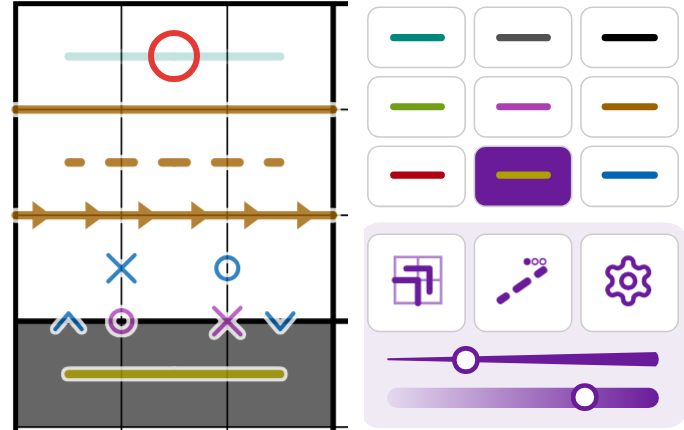
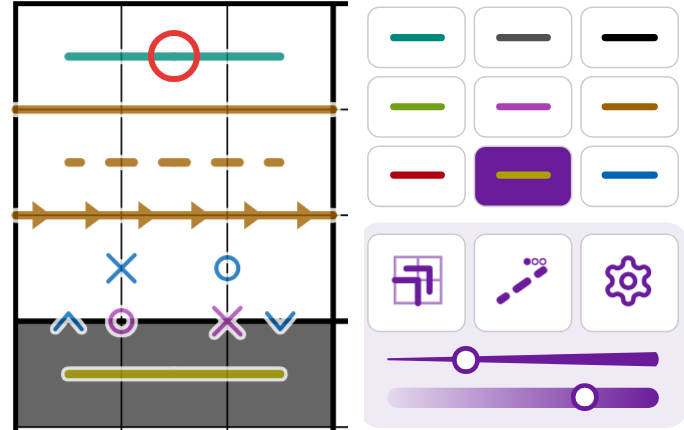
Pen Tool Extras: remove the erase preview, nothing dims during a right press (#739) (#785)
* Pen Tool Extras: remove the erase preview, nothing dims during a right press (#739)

Closes #739

* Pen Tool Extras: a name-independent no-dimming check, drop the weak CSS test and the history note (#739)

Closes #739

---------

Changed region(s): [[0.0921, 0.1209, 0.4298, 0.1512]]

diff --git a/pen-tool-extras.user.js b/pen-tool-extras.user.js
@@ -1,7 +1,7 @@
 // ==UserScript==
 // @name         SudokuPad Pen Tool Extras
 // @namespace    https://github.com/caneff/sudokupad-scripts
-// @version      1.31.22
+// @version      1.31.23
 // @description  Adds to SudokuPad's pen tool: customizable pen colors, dashed and arrow lines, and marks on cell edges and grid corners. Turn the pen tool on in SudokuPad's settings first.
 // @homepageURL  https://caneff.github.io/sudokupad-scripts/pen-tool-extras.html
 // @match        https://sudokupad.app/*
@@ -21,7 +21,7 @@
 
   // 1. Core: the settings table, the install steps, the style writer and shared constants
   // The script cannot read its own header (GM_info is absent without Tampermonkey), so @version is repeated here.
-  const VERSION = '1.31.22'
+  const VERSION = '1.31.23'
   const STYLE_ID = 'pen-tool-extras-style'
   const GRID_SELECTOR = '#svgrenderer'
   const PEN_LAYER = '#cell-pen'
@@ -1660,53 +1660,6 @@
   }
 
   // 6. Marks: edge marks, grid-corner marks, cell marks and the marks layer
-  // Faded strokes: what the right-click erase will take is drawn at this opacity, a little under tldraw's 0.32 for the same.
-  const FADED_OPACITY = 0.3
-  const FADED_CLASS = 'pen-tool-extras-faded'
-  const FADED_GROUP_CLASS = 'pen-tool-extras-faded-group'
-  const PREVIEW_LAYER_ID = 'pen-tool-extras-erase-preview'
-
-  // `Cell.renderPropPen` keeps each stroke's element in `childElems` under the class it was drawn with (docs/research/sudokupad-pen-tool.md). A stroke with no element throws,
-  // which turns off the feature that asked, rather than leaving the stroke unfaded.
-  function strokeElementOf (cell, valueColor) {
-    const className = `cell-pen pen-${valueColor[0]} pencolor-${valueColor.slice(1)}`
-    const element = cell.childElems[className]
-    if (!element) throw new Error(`pen-tool-extras: cell ${cell.row},${cell.col} holds no element for ${className}`)
-    return element
-  }
-
-  // Exactly `elements` carry the faded class, which hides them, and copies of them show in one group at the faded opacity, so the set fades as one picture: where two segments
-  // of a line join, the joint shows the same shade as the rest (each stroke fading on its own would stack there). The group is beside the pen layer, so the layer's opacity is
-  // applied to it here and the outline filter is applied by `buildOutlineCss`.
-  let fadedGroup = null
-
-  // What the faded group shows: the faded opacity under the pen layer's own, which the group, being beside the layer, does not get from it.
-  const fadedOpacity = () => FADED_OPACITY * inForce.opacity / 100
-
-  function copiesOf (className, elements) {
-    const group = document.createElementNS(SVG_NAMESPACE, 'g')
-    group.setAttribute('class', className)
-    elements.forEach((element) => {
-      const copy = element.cloneNode(true)
-      copy.classList.remove(FADED_CLASS)
-      group.appendChild(copy)
-    })
-    return group
-  }
-
-  function fadeStrokes (elements) {
-    const layer = previewLayer()
-    const shown = layer ? elements : []
-    document.querySelectorAll(`.${FADED_CLASS}`).forEach((el) => { if (!shown.includes(el)) el.classList.remove(FADED_CLASS) })
-    shown.forEach((el) => el.classList.add(FADED_CLASS))
-    if (fadedGroup !== null) fadedGroup.remove()
-    fadedGroup = null
-    if (!shown.length) return
-    fadedGroup = copiesOf(FADED_GROUP_CLASS, shown)
-    fadedGroup.style.opacity = fadedOpacity()
-    layer.appendChild(fadedGroup)
-  }
-
   const overGridInPenTool = (app, event) => app.tool === 'pen' && Boolean(event.target.closest && event.target.closest(GRID_SELECTOR))
 
   const guardedBy = (step, fallback) => (handler) => (event) => step.run(() => handler(event), fallback)
@@ -2136,12 +2089,6 @@
     erase.at = to
   }
 
-  function erasedElements (erase) {
-    const lines = [...erase.lines].map(({ value, row, col, color }) => strokeElementOf(Framework.app.grid.getCell(row, col), value + color))
-    const marks = [...erase.marks].flatMap(([cell, values]) => cell.pen.filter((valueColor) => values.has(valueColor[0])).map((valueColor) => strokeElementOf(cell, valueColor)))
-    return [...lines, ...marks]
-  }
-
   function finishErase (tool, erase) {
     const marks = [...erase.marks].map(([cell, values]) => ({ cell, values: [...values] }))
     const acts = eraseActs([...erase.lines], marks, (row, col) => Framework.app.grid.getCell(row, col))
@@ -2161,8 +2108,7 @@
     steps.lineErase.wrap(tool, 'clickCell', (stock, ...args) => isEraseButton(lastButton) ? undefined : stock(...args))
     const erasePress = (event) => isEraseButton(event.button) && overGridInPenTool(app, event)
     const pointOf = (event) => app.xyToRCExact(event.clientX, event.clientY)
-    const showErasing = () => fadeStrokes(erase === null ? [] : erasedElements(erase))
-    const guarded = guardedBy(steps.lineErase, () => { erase = null; menuOwed = false; showErasing() })
+    const guarded = guardedBy(steps.lineErase, () => { erase = null; menuOwed = false })
     window.addEventListener('pointerdown', guarded((event) => {
       erase = null
       menuOwed = false
@@ -2174,19 +2120,16 @@
       erase = started
       menuOwed = true
       crossPoint(marksAt, started, point)
-      showErasing()
       // A `pointerup` comes only once the last button is up, whichever it is, so a drag with a second button pressed ends at that release.
       trackPointer(window, {
         move: guarded((moveEvent) => {
           if (erase === started && (moveEvent.buttons & RIGHT_BIT)) {
             crossTo(marksAt, started, pointOf(moveEvent))
-            showErasing()
           }
         }),
         end: guarded((endEvent) => {
           if (erase !== started) return
           erase = null
-          showErasing()
           if (endEvent.type === 'pointercancel') return
           crossTo(marksAt, started, pointOf(endEvent))
           finishErase(tool, started)
@@ -2197,7 +2140,6 @@
     window.addEventListener('keydown', guarded((event) => {
       if (event.key !== 'Escape' || erase === null) return
       erase = null
-      showErasing()
     }), true)
     document.addEventListener('contextmenu', guarded((event) => {
       const overGrid = inForce.eraseClicks && overGridInPenTool(app, event)
@@ -2264,7 +2206,6 @@
     const colorsOf = (pages) => pages.flatMap((page) => page.chars.map((char, i) => [char, PEN_COLOR_KEYS[i]]))
     const dashed = PEN_PAGES.filter((page) => page.dashed).flatMap((page) => page.chars)
     return [
-      `:root:root .cell-pen.${FADED_CLASS} { opacity: 0; }`,
       // The hint layer fades as one picture, so an arrowhead over the line shows the line's shade. The erase hint keeps its stock 0.5 overall.
       `:root:root #${HINT_LAYER_ID} { opacity: ${HINT_OPACITY}; }`,
       `:root:root #${HINT_LAYER_ID} .penhint { opacity: 1; }`,
@@ -2277,7 +2218,7 @@
 
   // A filter runs on the layer's picture before its opacity does, so the outline fades with the marks. The highlight (`.penhint`) is in its own group beside the layer, so it is not outlined.
   function buildOutlineCss (outline) {
-    return outline ? `:root:root ${PEN_LAYER}, :root:root .${FADED_GROUP_CLASS} { filter: url(#${OUTLINE_FILTER_ID}); }` : ''
+    return outline ? `:root:root ${PEN_LAYER} { filter: url(#${OUTLINE_FILTER_ID}); }` : ''
   }
 
   // The layer's alpha is grown in the two steps described at OUTLINE_SQUARE_SHARE, as one shape, so the outline does not cut across where lines join or cross. The filter works
@@ -2316,10 +2257,6 @@
 
   function hintLayer () {
     return layerIn(HINT_LAYER_ID, true)
-  }
-
-  function previewLayer () {
-    return layerIn(PREVIEW_LAYER_ID, true)
   }
 
   // SudokuPad draws the drag highlight inside the pen layer; it moves to the layer beside it, so the pen layer's opacity and outline do not touch it.

diff --git a/site/index.html b/site/index.html
@@ -42,7 +42,7 @@
         <img class="slide" src="https://raw.githubusercontent.com/caneff/sudokupad-scripts/main/docs/research/pen-tool-extras/pen-tool-extras-slide-11-opacity.png?v=8b9dbdc" alt="Every line and mark faded, with the Opacity slider down" width="684" height="430">
         <img class="slide" src="https://raw.githubusercontent.com/caneff/sudokupad-scripts/main/docs/research/pen-tool-extras/pen-tool-extras-slide-12-outline-off.png?v=a34da8b" alt="A yellow line across dark cells with no white outline, harder to see" width="684" height="430">
         <img class="slide" src="https://raw.githubusercontent.com/caneff/sudokupad-scripts/main/docs/research/pen-tool-extras/pen-tool-extras-slide-13-outline-on.png?v=cabbe4c" alt="The same yellow line across dark cells with a white outline, easy to see" width="684" height="430">
-        <img class="slide" src="https://raw.githubusercontent.com/caneff/sudokupad-scripts/main/docs/research/pen-tool-extras/pen-tool-extras-slide-14-erase.png?v=56962b4" alt="A red ring on the first line, which has faded to show it is the line a right press will erase" width="684" height="430">
+        <img class="slide" src="https://raw.githubusercontent.com/caneff/sudokupad-scripts/main/docs/research/pen-tool-extras/pen-tool-extras-slide-14-erase.png?v=e3366a1" alt="A red ring on the first line, where a right press is held" width="684" height="430">
         <img class="slide" src="https://raw.githubusercontent.com/caneff/sudokupad-scripts/main/docs/research/pen-tool-extras/pen-tool-extras-slide-15-erased.png?v=aa3a9a1" alt="The board with the first line gone and every other line and mark still there" width="684" height="430">
       </div>
       <div class="slide-bar">
@@ -60,7 +60,7 @@
           <p class="slide-caption">Opacity</p>
           <p class="slide-caption">White outlines off</p>
           <p class="slide-caption">White outlines on</p>
-          <p class="slide-caption">Hold a right click on a line and it fades; let go to delete it</p>
+          <p class="slide-caption">Right click a line to delete it, or drag across lines to delete each one you cross</p>
           <p class="slide-caption">The whole line is gone</p>
         </div>
       </div>

diff --git a/site/pen-tool-extras.html b/site/pen-tool-extras.html
@@ -29,7 +29,7 @@
       <img class="slide" src="https://raw.githubusercontent.com/caneff/sudokupad-scripts/main/docs/research/pen-tool-extras/pen-tool-extras-slide-11-opacity.png?v=8b9dbdc" alt="Every line and mark faded, with the Opacity slider down" width="684" height="430">
       <img class="slide" src="https://raw.githubusercontent.com/caneff/sudokupad-scripts/main/docs/research/pen-tool-extras/pen-tool-extras-slide-12-outline-off.png?v=a34da8b" alt="A yellow line across dark cells with no white outline, harder to see" width="684" height="430">
       <img class="slide" src="https://raw.githubusercontent.com/caneff/sudokupad-scripts/main/docs/research/pen-tool-extras/pen-tool-extras-slide-13-outline-on.png?v=cabbe4c" alt="The same yellow line across dark cells with a white outline, easy to see" width="684" height="430">
-      <img class="slide" src="https://raw.githubusercontent.com/caneff/sudokupad-scripts/main/docs/research/pen-tool-extras/pen-tool-extras-slide-14-erase.png?v=56962b4" alt="A red ring on the first line, which has faded to show it is the line a right press will erase" width="684" height="430">
+      <img class="slide" src="https://raw.githubusercontent.com/caneff/sudokupad-scripts/main/docs/research/pen-tool-extras/pen-tool-extras-slide-14-erase.png?v=e3366a1" alt="A red ring on the first line, where a right press is held" width="684" height="430">
       <img class="slide" src="https://raw.githubusercontent.com/caneff/sudokupad-scripts/main/docs/research/pen-tool-extras/pen-tool-extras-slide-15-erased.png?v=aa3a9a1" alt="The board with the first line gone and every other line and mark still there" width="684" height="430">
     </div>
     <div class="slide-bar">
@@ -47,7 +47,7 @@
         <p class="slide-caption">Opacity</p>
         <p class="slide-caption">White outlines off</p>
         <p class="slide-caption">White outlines on</p>
-        <p class="slide-caption">Hold a right click on a line and it fades; let go to delete it</p>
+        <p class="slide-caption">Right click a line to delete it, or drag across lines to delete each one you cross</p>
         <p class="slide-caption">The whole line is gone</p>
       </div>
     </div>

diff --git a/test/pen-tool-extras.test.js b/test/pen-tool-extras.test.js
@@ -1614,13 +1614,8 @@ test('the outline setting is off only for a saved false: nothing saved and anyth
 
 test('buildOutlineCss is empty when the outline is off and filters the pen layer and not the highlight, when on', () => {
   assert.equal(buildOutlineCss(false), '')
-  assert.equal(buildOutlineCss(true), `:root:root #cell-pen, :root:root .pen-tool-extras-faded-group { filter: url(#${OUTLINE_FILTER_ID}); }`)
+  assert.equal(buildOutlineCss(true), `:root:root #cell-pen { filter: url(#${OUTLINE_FILTER_ID}); }`)
   assert.doesNotMatch(buildOutlineCss(true), /penhint|pen-tool-extras-hint/)
-})
-
-test('buildFeedbackCss hides the erase\'s strokes (their copies, in one group, show the fade), and outranks the layer\'s opacity-1 rule', () => {
-  const rules = buildFeedbackCss(3).split('\n')
-  assert.equal(rules[0], ':root:root .cell-pen.pen-tool-extras-faded { opacity: 0; }')
 })
 
 test('buildFeedbackCss dashes the hint of the page 2 pens only, for the hint\'s width of 16: 3 widths is 32 on, 32 off, half a dash in; 0 is dots', () => {

diff --git a/docs/pen-tool-extras.md b/docs/pen-tool-extras.md
@@ -183,7 +183,7 @@ With the box on and the pen tool on, a right click over the grid erases what is 
 - On an edge mark, a grid-corner mark or a cell's circle, cross or dot with no line under the pointer: that mark, whatever its shape. Lines win over marks when both are under the pointer.
 - On nothing: nothing, and no mark is made.
 
-While the right button is held, everything the erase has gathered so far is drawn at 0.3 opacity: the whole line the press hit with its branches, and the marks. Releasing erases it at once, with no fade. Escape while the button is held cancels the erase: the faded strokes return to full opacity, nothing is erased and there is no undo step.
+While the right button is held nothing dims or changes: the erase shows no preview. Releasing erases the whole line the press hit with its branches, and the marks, at once, with no fade. Escape while the button is held cancels the erase: nothing is erased and there is no undo step.
 
 A line is hit within 0.2 of a cell of it, held to at least 10 px on small cells and at most 0.24 of a cell, so a centre line and the edge line beside it (0.5 apart) are never both hit.
 

diff --git a/GLOSSARY.md b/GLOSSARY.md
@@ -113,7 +113,6 @@
   there is no corner zone.
 - **corner cycle** — the order a left click in a corner zone steps through: X, circle, empty, skipping an unticked
   type.
-- **faded stroke** — a pen stroke shown at 0.3 opacity (the stroke is hidden and a copy of it, grouped with the other faded strokes, is drawn at 0.3) because the **pen erase** held under the right button will take it.
 - **pen erase** — Pen Tool Extras' right click or drag in the pen tool: the whole line under the pointer and the edge, corner and cell marks it crosses, as one undo step. Text Anywhere's **erase** is a different feature. The install step that does it is `line erase`.
 - **thickness** — the setting, with a slider in the pen tool's panel and one in the settings dialog, setting the stroke width of the pen's free lines, the cell circle,
   cross and dot (pen values 5, 6 and z) and every edge mark and grid-corner mark, from 1 to 16 in half steps (31 positions, shown as `2.5`), saved at once, on every move, under `PenColor_thickness`.

diff --git a/docs/research/sudokupad-pen-tool.md b/docs/research/sudokupad-pen-tool.md
@@ -163,8 +163,6 @@ that the slider sets `opacity` on `.cell-pen` and that overlaps darken at every 
   it. Live: their effective opacity, the product over their ancestors, is 0.6 and 0.5 with the slider at 20 and at 100.
   The hint layer itself carries the 0.6 (`.penhint` and the arrowheads beside an arrow pen's hint are solid inside it; the
   erase hint is `calc(0.5 / 0.6)`), so an arrowhead over the hint line shows the line's shade instead of stacking to about 0.84 (#580).
-  The right-click erase preview does the same: the faded strokes are hidden and one group of copies, in `g#pen-tool-extras-erase-preview`,
-  carries the 0.3, so the joints between a line's segments are not darker.
 
 ### The panel
 
